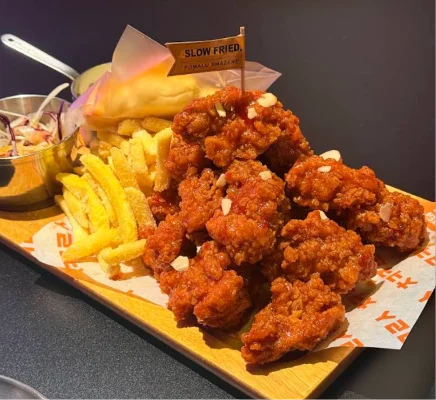
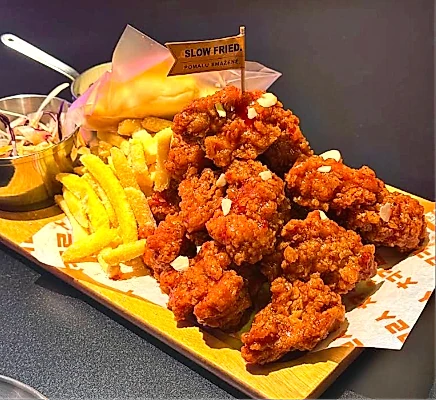
fix(magazin): remove restaurant details card and apply bright HD photographic enhancement to authentic community photos

diff --git a/src/routes/magazin.community.chicken-krush-prag.tsx b/src/routes/magazin.community.chicken-krush-prag.tsx
@@ -1,19 +1,8 @@
 import { createFileRoute, Link } from "@tanstack/react-router";
-import {
-  MapPin,
-  Shield,
-  Users,
-  Utensils,
-  Mail,
-  Instagram,
-  Sparkles,
-  ExternalLink,
-  BookOpen,
-} from "lucide-react";
+import { MapPin, Shield, Users, Mail, Instagram, Sparkles } from "lucide-react";
 import { useI18n } from "@/i18n/I18nProvider";
 import { SiteShell } from "@/components/SiteShell";
 import { AboutSpeiselySection } from "@/components/AboutSpeiselySection";
-import { trackEvent } from "@/utils/posthog";
 
 export const Route = createFileRoute("/magazin/community/chicken-krush-prag")({
   head: () => ({
@@ -192,27 +181,6 @@ I will attach my own photos or videos to this email.`;
 
   const mailtoHref = `mailto:info@speisely.de?subject=${encodeURIComponent(emailSubject)}&body=${encodeURIComponent(emailBody)}`;
   const instagramHref = "https://www.instagram.com/speisely/";
-
-  const menuUrl =
-    "https://wolt.com/en/cze/prague/restaurant/chicken-krush-prg?utm_source=speisely&utm_medium=referral&utm_campaign=chicken_krush_prag_community_visit";
-  const websiteUrl =
-    "https://chickenkrush.cz/?utm_source=speisely&utm_medium=referral&utm_campaign=chicken_krush_prag_community_visit";
-
-  const handleMenuClick = () => {
-    trackEvent("restaurant_menu_click", {
-      restaurant_name: "Chicken Krush Prague",
-      article_slug: "chicken-krush-prag",
-      destination: "wolt_menu",
-    });
-  };
-
-  const handleWebsiteClick = () => {
-    trackEvent("restaurant_website_click", {
-      restaurant_name: "Chicken Krush Prague",
-      article_slug: "chicken-krush-prag",
-      destination: "official_website",
-    });
-  };
 
   return (
     <SiteShell>
@@ -492,61 +460,6 @@ I will attach my own photos or videos to this email.`;
                 ? "Ein unkomplizierter, lebendiger Abend in Prag: Reinkommen, per Touchscreen bestellen, Holzbretter teilen und den besten Crunch der Neustadt genießen."
                 : "An effortless, vibrant evening in Prague: walk in, order via touchscreen, share the wooden platters, and enjoy some of the crunchiest fried chicken in Nové Město."}
             </p>
-
-            {/* Restaurant Info & Action Card */}
-            <div className="surface-card p-6 sm:p-8 rounded-3xl border border-forest/15 bg-white my-10 shadow-sm">
-              <div className="flex items-center gap-2 text-xs font-bold uppercase tracking-wider text-[#b28a3c] mb-2">
-                <Utensils className="h-4 w-4" aria-hidden="true" />
-                <span>{isDe ? "Restaurant-Informationen" : "Restaurant Details"}</span>
-              </div>
-              <h3 className="font-display text-2xl font-bold text-forest mb-2">
-                Chicken Krush Prag
-              </h3>
-              <p className="text-sm text-forest/75 mb-4">
-                Příčná 1632/9, 110 00 Praha 1 – Nové Město, Tschechien
-              </p>
-
-              <div className="flex flex-wrap gap-2 text-xs text-forest/70 mb-6">
-                <span className="bg-forest/5 px-3 py-1 rounded-full border border-forest/10 font-medium">
-                  {isDe ? "Korean Fried Chicken" : "Korean Fried Chicken"}
-                </span>
-                <span className="bg-forest/5 px-3 py-1 rounded-full border border-forest/10 font-medium">
-                  {isDe ? "Yangnyeom & Snow Flake" : "Yangnyeom & Snow Flake"}
-                </span>
-                <span className="bg-forest/5 px-3 py-1 rounded-full border border-forest/10 font-medium">
-                  {isDe ? "Rose Tteokbokki" : "Rose Tteokbokki"}
-                </span>
-                <span className="bg-forest/5 px-3 py-1 rounded-full border border-forest/10 font-medium">
-                  {isDe ? "Digitale Tisch-Bestellung" : "Digital Table Ordering"}
-                </span>
-              </div>
-
-              {/* Action Buttons */}
-              <div className="flex flex-wrap items-center gap-3 pt-2">
-                <a
-                  href={menuUrl}
-                  target="_blank"
-                  rel="noopener"
-                  onClick={handleMenuClick}
-                  className="inline-flex items-center justify-center gap-2 rounded-full bg-forest text-[oklch(0.97_0.02_92)] px-6 py-3 text-xs sm:text-sm font-bold shadow-md hover:bg-forest/90 transition-all hover:gap-2.5 cursor-pointer"
-                >
-                  <BookOpen className="h-4 w-4 text-[#f2d896]" aria-hidden="true" />
-                  <span>{isDe ? "Speisekarte & Bestellen" : "Explore Menu & Order"}</span>
-                  <ExternalLink className="h-3.5 w-3.5 opacity-70" aria-hidden="true" />
-                </a>
-
-                <a
-                  href={websiteUrl}
-                  target="_blank"
-                  rel="noopener"
-                  onClick={handleWebsiteClick}
-                  className="inline-flex items-center justify-center gap-2 rounded-full bg-cream text-forest px-6 py-3 text-xs sm:text-sm font-semibold border border-forest/15 hover:bg-[#eadfce] transition-colors cursor-pointer"
-                >
-                  <span>{isDe ? "Website besuchen" : "Visit Website"}</span>
-                  <ExternalLink className="h-3.5 w-3.5 opacity-60" aria-hidden="true" />
-                </a>
-              </div>
-            </div>
 
             {/* Editorial Disclosure Box */}
             <div className="rounded-2xl bg-cream p-5 text-xs text-forest/75 border border-forest/15 space-y-2 mt-8">
